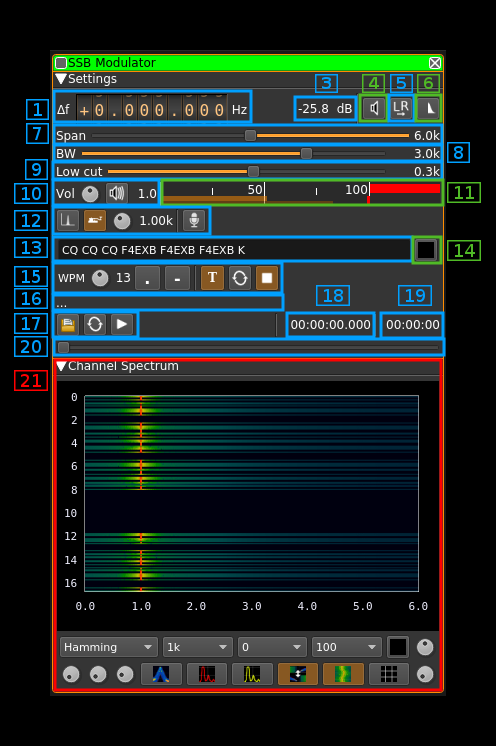
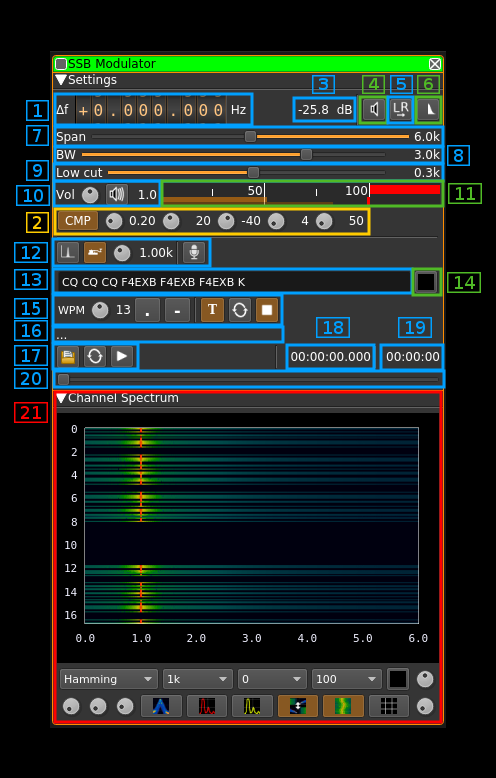
SSB modulator: updated documentation

diff --git a/plugins/channeltx/modssb/readme.md b/plugins/channeltx/modssb/readme.md
@@ -16,6 +16,44 @@ This plugin can be used to generate a single sideband or double sidebands modula
 
 Use the wheels to adjust the frequency shift in Hz from the center frequency of transmission. Left click on a digit sets the cursor position at this digit. Right click on a digit sets all digits on the right to zero. This effectively floors value at the digit position. Wheels are moved with the mousewheel while pointing at the wheel or by selecting the wheel with the left mouse click and using the keyboard arroews. Pressing shift simultanoeusly moves digit by 5 and pressing control moves it by 2.
 
+<h3>2: Audio compression</h3>
+
+![SSB Modulator plugin compressor GUI](../../../doc/img/SSBModulator_plugin_cmp.png)
+
+The audio compressor uses the same AGC as on the receive side (SSB demodulator) with the following changes:
+
+  - The clamping is always active to prevent modulation overload
+  - The amplitude (magnitude) order control is tunable (2.2)
+  - The squelch delay after return below threshold is tunable (2.6) 
+
+<h4>2.1: Audio compressor toggle</h4>
+
+Use this button to toggle audio compressor on and off. In "on" mode the button is lit as on the picture.
+
+<h4>2.2: AGC magnitude order</h4>
+
+This is the ratio to maximum signal magnitude aimed by the AGC. The higher the stronger is the compression but the signal will have more chances to get clamped and therefore will get more severly distorted.
+
+The default value is 0.2 which is rather mild. For normal voice you should not exceed 0.4 however the criteria is rather subjective. It is flexible enough to be tuned between 0 and 1 in 0.01 increments.
+
+<h4>2.3: AGC time constant</h4>
+
+Audio power is averaged during this period in ms. The lower the closer the compression reacts to audio signal variations and the "harder" it feels. This period can be set among these values: 1, 2, 5, 10, 20, 50, 100, 200, 500, 990 ms
+
+The default value is 200 ms which is relatively "soft". Most practically useful values are between 20 and 500 ms.
+
+<h4>2.4: Power threshold</h4>
+
+in order to avoid small signals due to background noise or power wiggle to enter the system and raise to normal voice level a power based squelch is in place. This control allows to select a threshold in dB above which a signal will open the squalch if it lasts longer than the squelch gate (2.5). Default is -40 dB.
+
+<h4>2.5: Squelch gate</h4>
+
+This prevents short bursts to open the squelch. This is the time in ms after a signal with a power constantly above the threshold will effectively open the squelch. Default is 4 ms.
+
+<h4>2.6: Squelch cut-off delay</h4>
+
+This controls the delay in ms after which a signal drop below threshold will close the squelch. Default value is 50 ms.
+
 <h3>3: Channel power</h3>
 
 Average total power in dB relative to a +/- 1.0 amplitude signal generated in the pass band.
